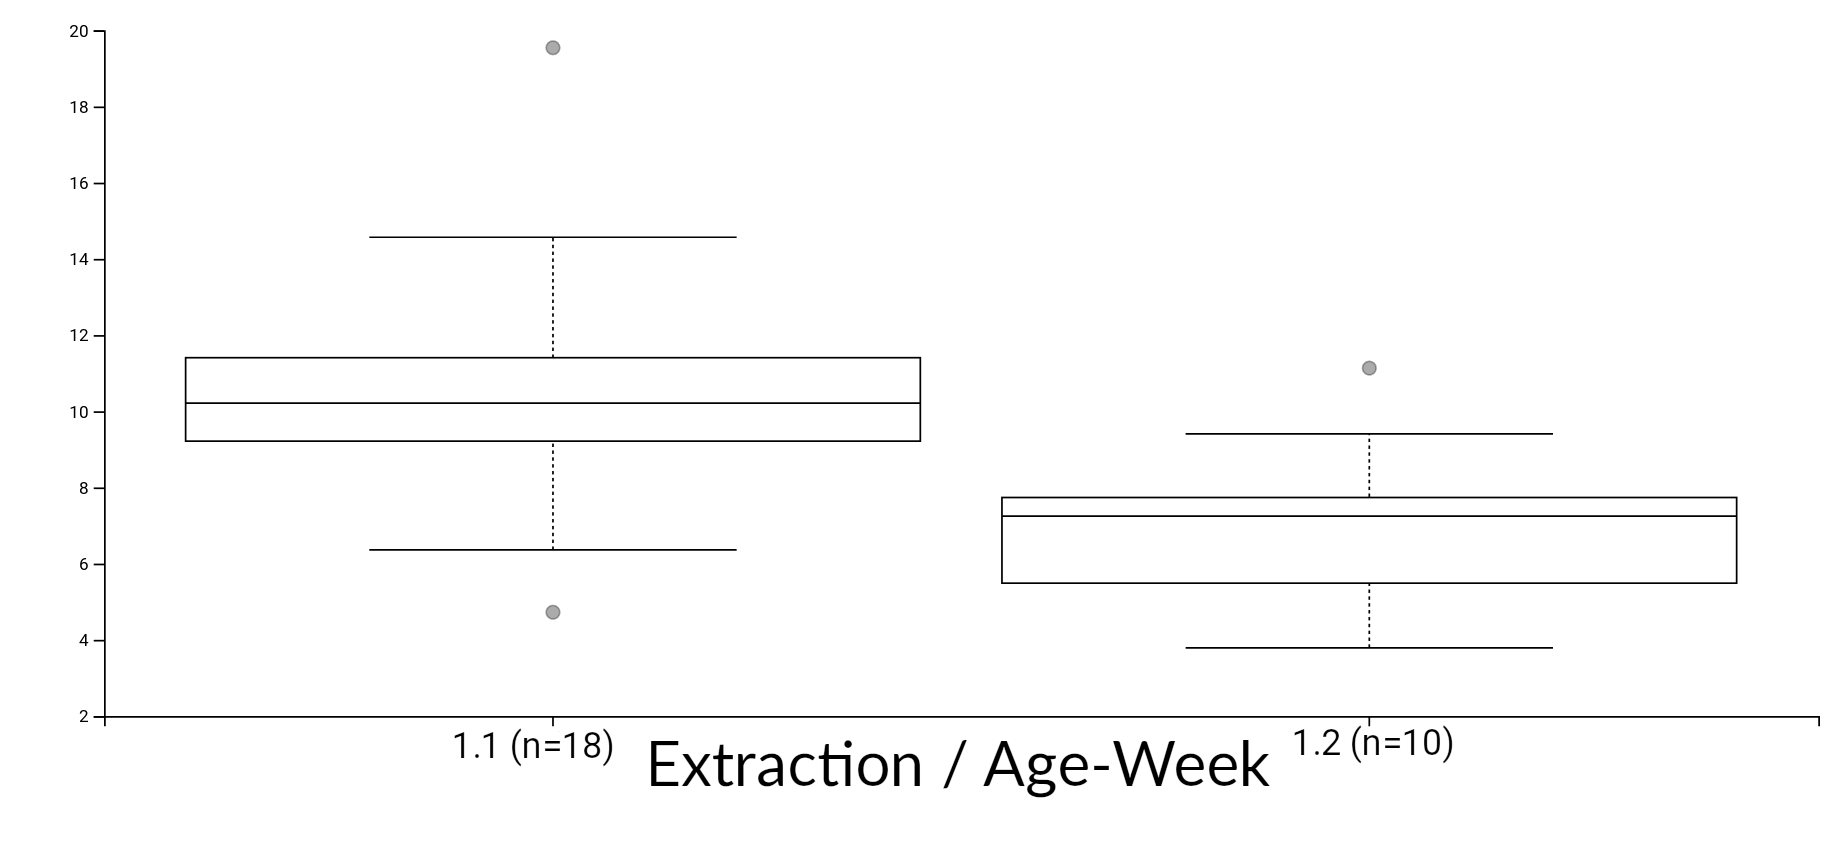
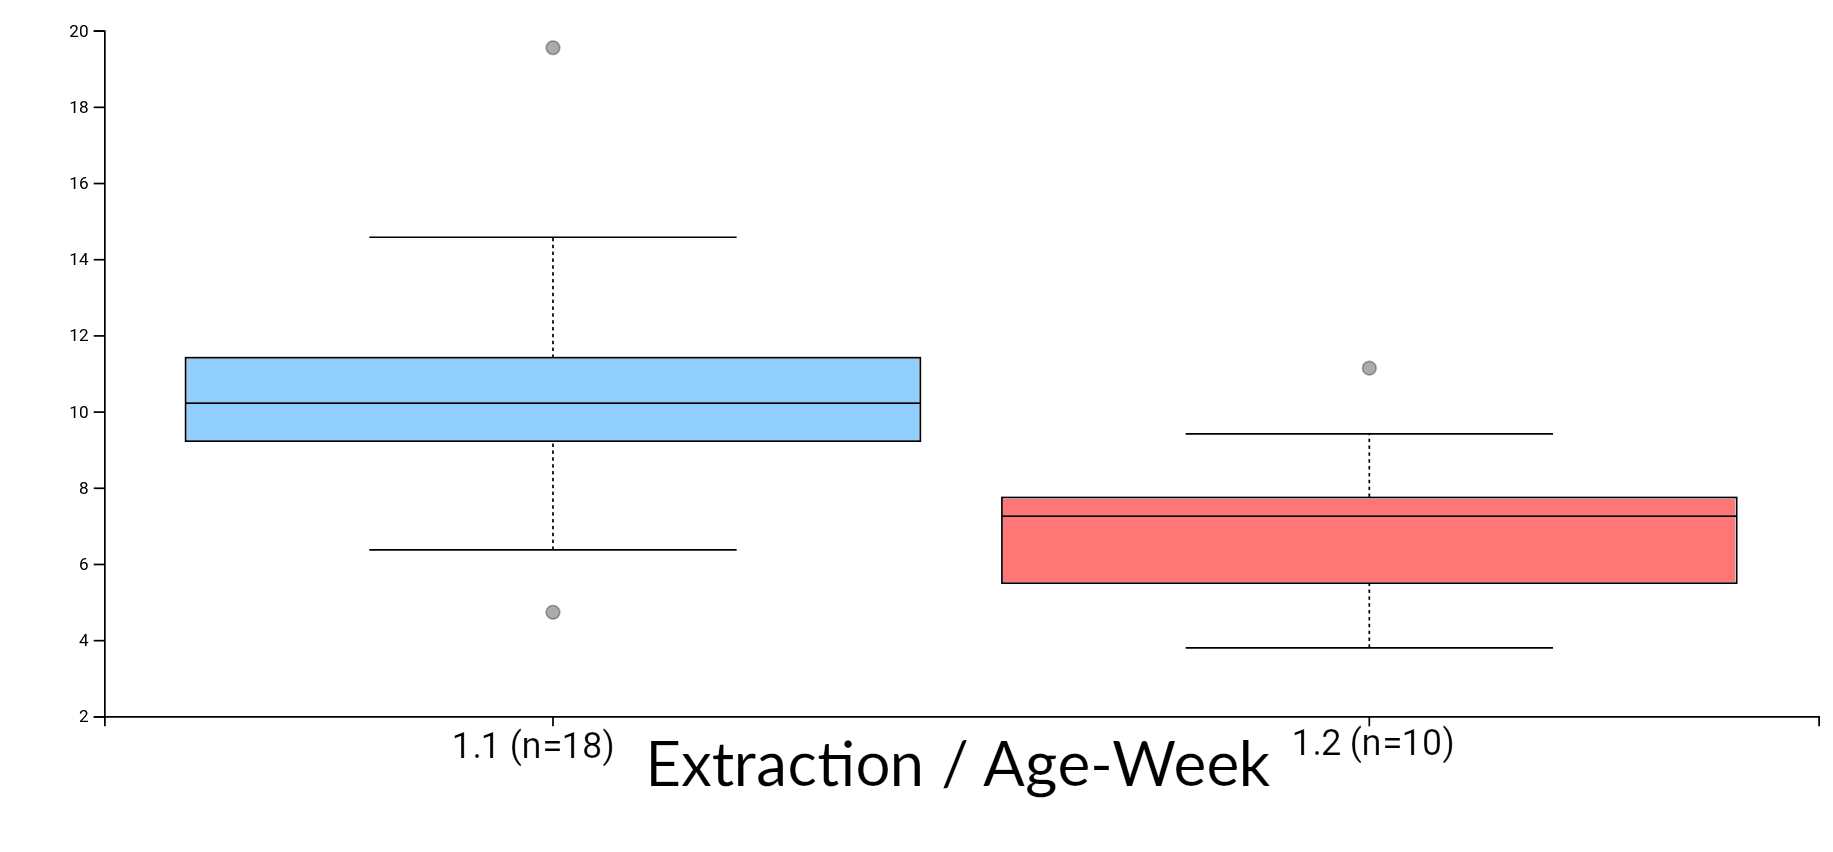
D2 updates: color boxplots, language tweaks, update lab methods img

Changed region(s): [[0.5286, 0.5798, 0.964, 0.7019], [0.0933, 0.3967, 0.5286, 0.5188]]

diff --git a/poster.tex b/poster.tex
@@ -124,29 +124,31 @@
       \item The ileum, the most distal region of the small intestine, is a known site for immune modulation
       \item Studies correlate gut microbiome characteristics and AD pathology, possibly facilitated by bidirectional communication between gut microbes and the brain along the 'gut-brain axis'
       \item AD is characterized by neuroinflammation, neurofibrillary tangles, and aggregated amyloid-β plaques in the brain.
+      \item Mice with AD are pre-symptomatic at 8 weeks of age, have begun to exhibit AD pathologies at 24 weeks, and have advanced AD pathologies at 52 weeks.
       \item These pathologies may be influenced by inflammatory cytokines produced in the gut.
     \end{itemize}
 
     \textbf{Hypothesis:}
-    We expect to see mice genetically predisposed to developing AD
-    pathologies exhibit altered composition of the ileum microbiome and
-    upregulation of proinflammatory cytokines.
+    Mice genetically predisposed to developing AD pathologies will exhibit
+    altered composition of the ileum microbiota and upregulation of
+    proinflammatory cytokines. These shifts will be increasingly visible as
+    disease pathologies develop.
       
   \end{block}
 
   \begin{block}{Laboratory Methods}
 
   \begin{figure}[tph!]
-    {\includegraphics[height=14cm]{assets/qPCR_methods}}
-    \caption{Visual rendering of qPCR wet lab processes. Samples are collected at 8, 24, and 52 weeks. RNA is extracted and reverse transcribed to cDNA. cDNA undergoes qPCR, and the resulting data is analyzed.}
-    \label{fig:qpcrMethods}
+    {\includegraphics[width=.95\linewidth]{assets/lab_methods}}
+    \caption{Graphical rendering of wet lab processes. Samples are collected
+    at 8, 24, and 52 weeks. DNA and RNA are extracted. RNA is then reverse
+    transcribed to cDNA. cDNA undergoes qPCR, and the resulting data are
+    analyzed. Concurrently, the 16s rRNA gene is amplified using Polymerase
+    Chain Reaction (PCR). Sequencing is performed with an Illumina MiSeq, and
+    the resulting data are analyzed with QIIME 2.}
+    \label{fig:lab_methods}
   \end{figure}
 
-  \begin{figure}[tph!]
-    {\includegraphics[height=14cm]{assets/16s_lab_methods}}
-    \caption{Visual rendering of 16s wet lab processes. Samples are collected at 8, 24, and 52 weeks. DNA is extracted and 16s rRNA is transcribed from it. Sequencing is performed with an Illumina MiSeq, and the resulting data is analyzed with QIIME 2.}
-    \label{fig:16sMethods}
-  \end{figure}
 
   \end{block}
 
@@ -254,13 +256,13 @@
     \begin{block}{Results}
       \textbf{qPCR results:}
       \begin{itemize}
-        \item Humanized 3xTg-AD mice express significantly higher levels of Arg1 and Nos2 cytokines than paired Wild Type mice
+        \item Humanized 3xTg-AD mice express significantly higher levels of Arg1 and Nos2 cytokines than age-matched Wild Type mice
         \item Arg1 and Nos2 cytokines are expressed at significantly higher levels at 52 weeks than at 8 weeks
       \end{itemize}
 
       \textbf{16s results:}
       \begin{itemize}
-      \item at 8 and 24 weeks, we see no statistically significant differences in alpha or beta diversity on Strain
+      \item At 8 and 24 weeks, we see no statistically significant differences in alpha or beta diversity on Strain
       \item We see significant difference on age-week, but our extraction scheme may confound these results*
       \item Order Erysipelotrichales is the most important taxon in describing change over time from 8->24 weeks
       \end{itemize}
